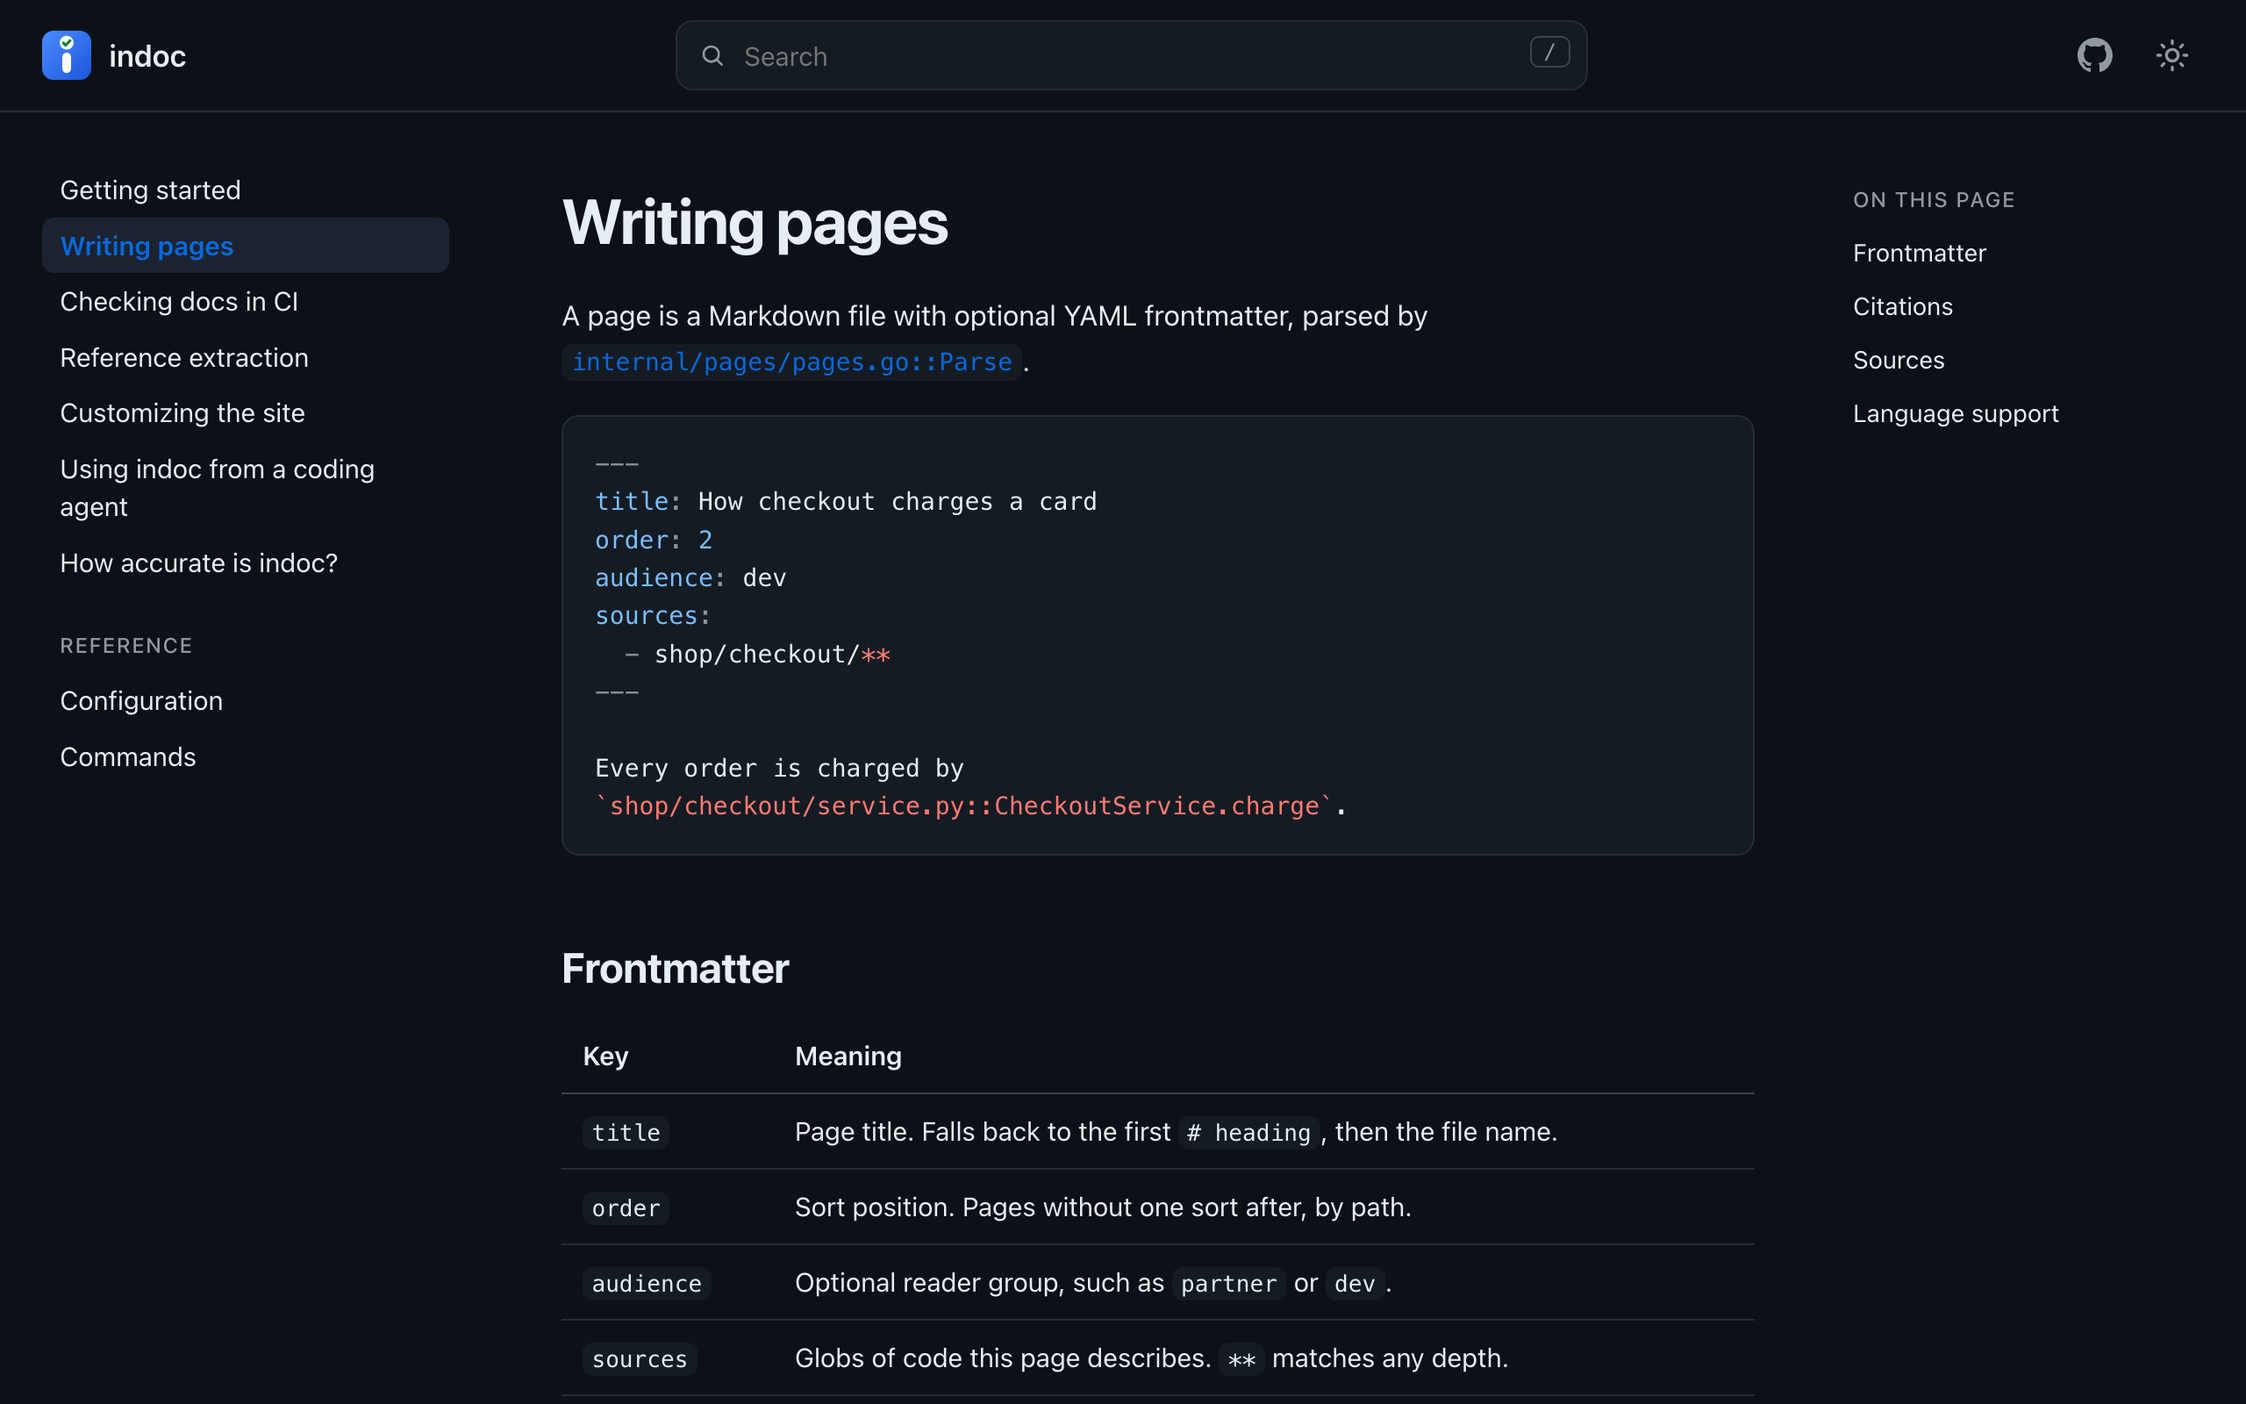
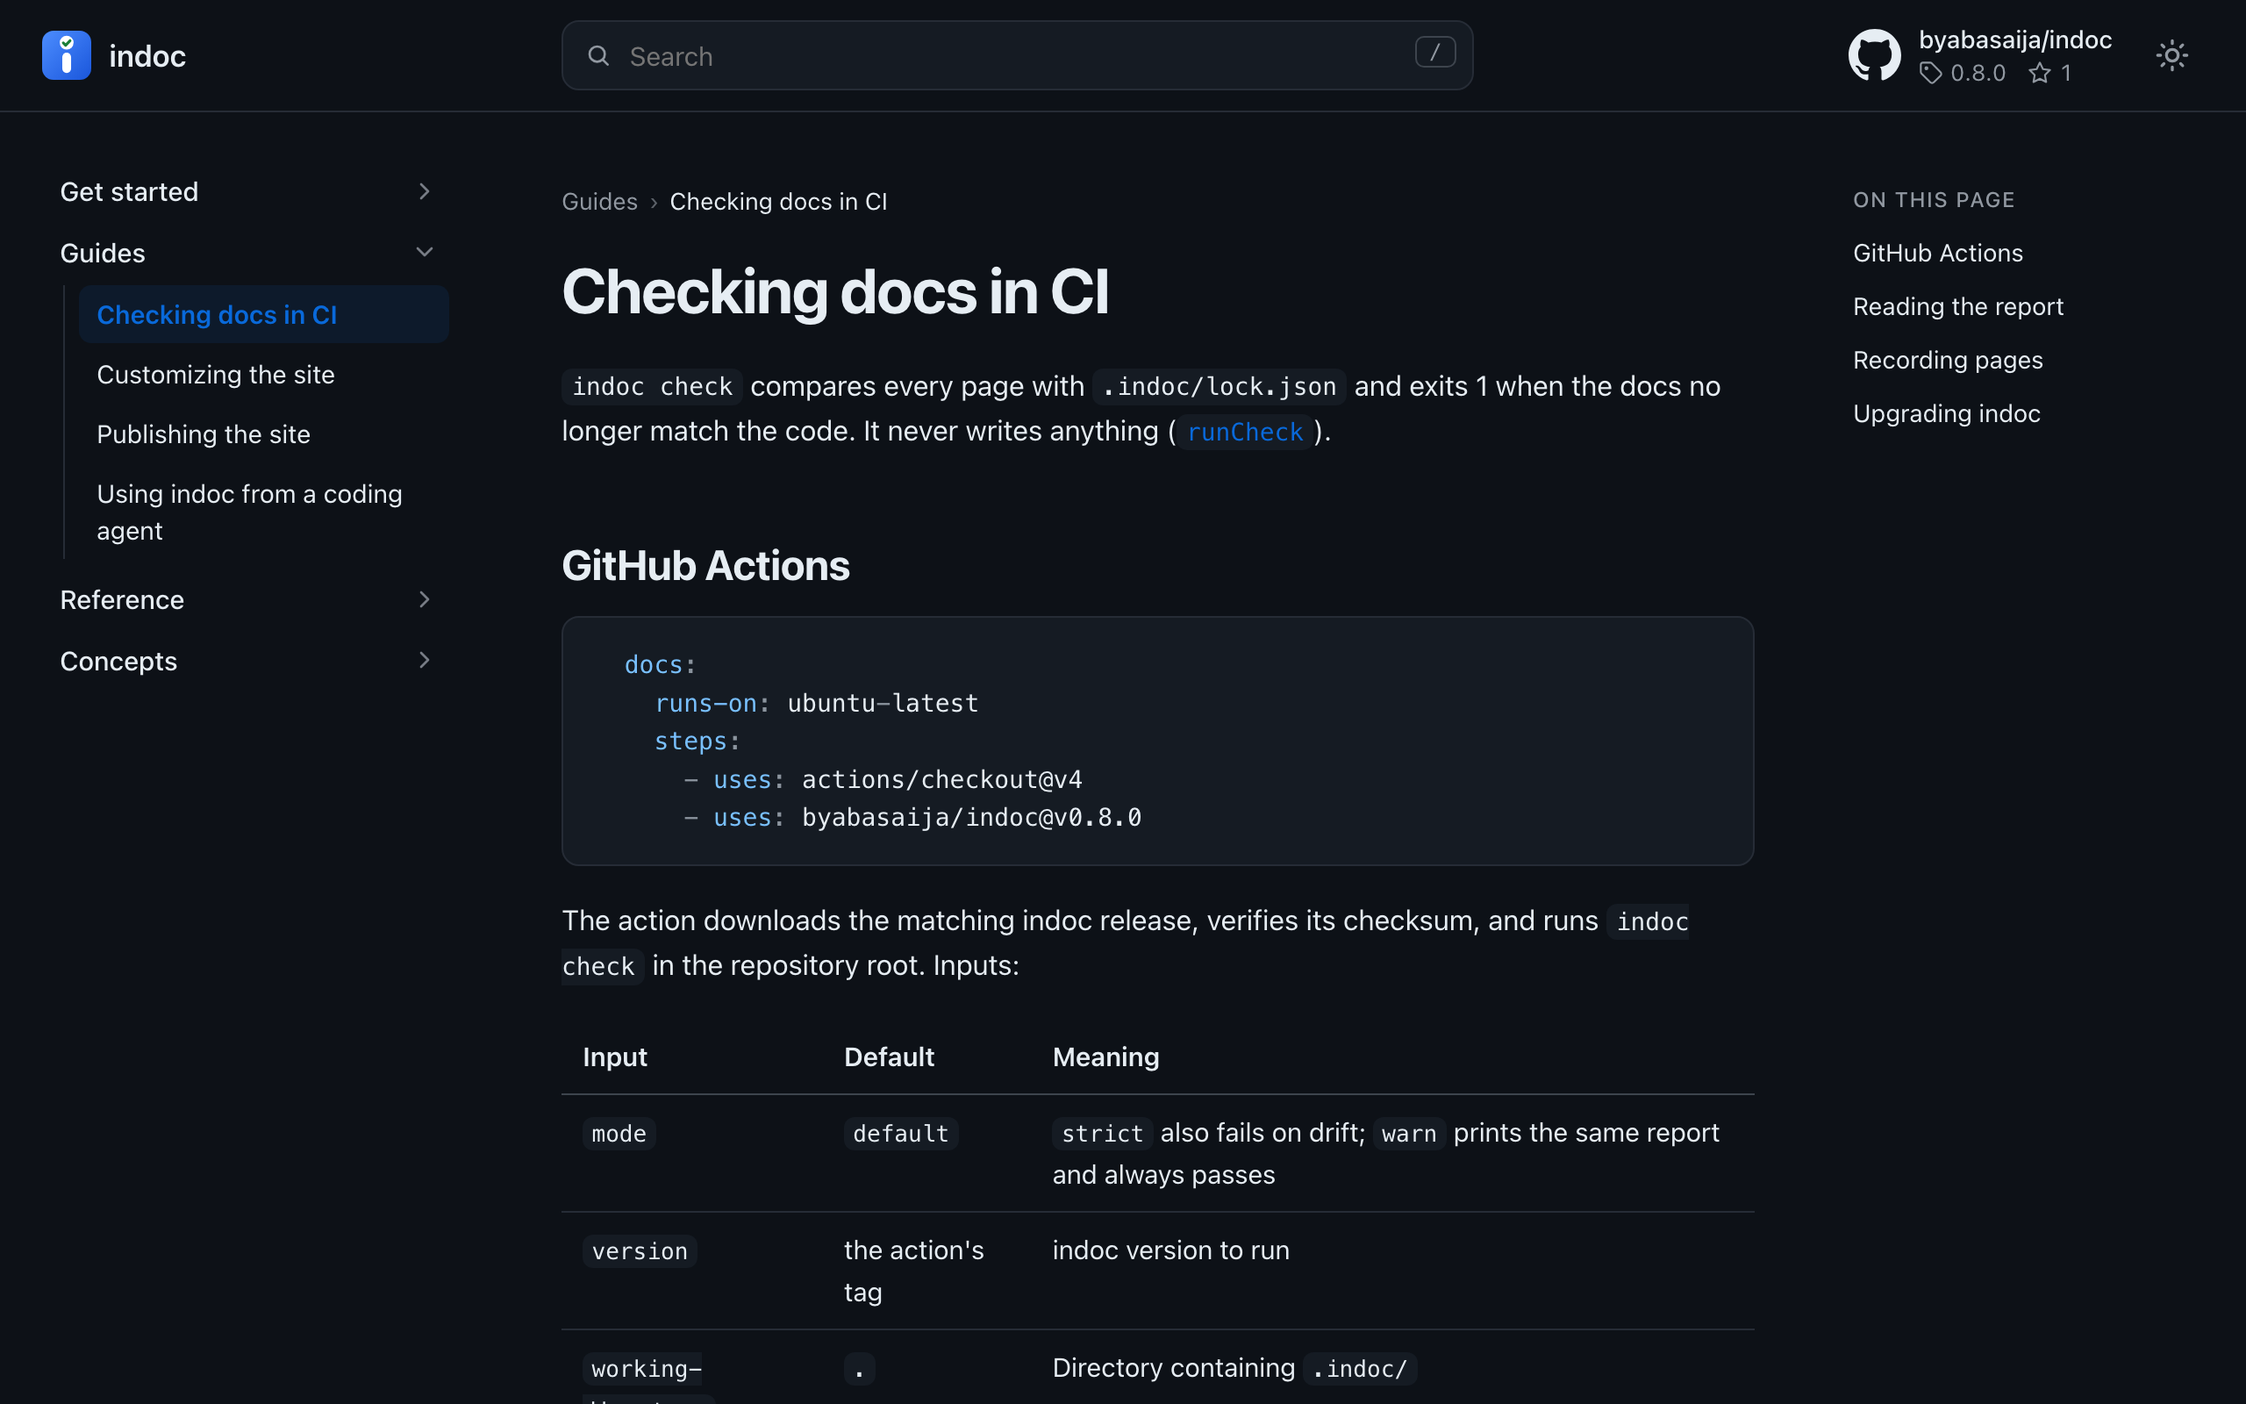
fix(check): report a cited change once, color the report; README demo GIF; release 0.8.1
A changed signature of a cited symbol was reported twice: on the citation
and again for its file. The file report now leaves cited symbols to their
citations. The report is colored in a terminal (NO_COLOR respected).
The README opens with design/demo.gif, recorded by design/record-demo.sh
from indoc's own docs; screenshots retaken from the live site.

diff --git a/internal/drift/drift.go b/internal/drift/drift.go
@@ -315,8 +315,10 @@ func compareSources(r *Repo, p pages.Page, entry PageLock, covered []string) []F
 			out = append(out, Finding{Page: p.Path, Kind: Drift, Ref: path, Detail: "tests changed"})
 			continue
 		}
-		public, private := surfaceChanges(was, f)
+		public, private, skipped := surfaceChanges(was, f, cited(p, path))
 		switch {
+		case public == "" && private == "" && skipped:
+			// Only cited symbols changed; their citations report it.
 		case public != "":
 			out = append(out, Finding{Page: p.Path, Kind: Stale, Ref: path, Detail: public})
 		case private != "":
@@ -337,9 +339,22 @@ func compareSources(r *Repo, p pages.Page, entry PageLock, covered []string) []F
 	return out
 }
 
+// cited returns the symbols the page cites in path.
+func cited(p pages.Page, path string) map[string]bool {
+	out := map[string]bool{}
+	for _, c := range p.Citations {
+		if c.Path == path {
+			out[c.Symbol] = true
+		}
+	}
+	return out
+}
+
 // surfaceChanges describes added, removed, and re-signed symbols, split into
-// public ones (stale) and private ones (drift). Either may be "".
-func surfaceChanges(was FileLock, f code.File) (public, private string) {
+// public ones (stale) and private ones (drift). Either may be "". Symbols in
+// skip are left out, because their citations already report them; skipped
+// says whether any were.
+func surfaceChanges(was FileLock, f code.File, skip map[string]bool) (public, private string, skipped bool) {
 	now := f.Surfaces()
 	privateNow := f.Private()
 	privateWas := map[string]bool{}
@@ -360,6 +375,8 @@ func surfaceChanges(was FileLock, f code.File) (public, private string) {
 		case !ok:
 			g := pick(q, privateNow[q])
 			g.added = append(g.added, q)
+		case old != s && skip[q]:
+			skipped = true
 		case old != s:
 			g := pick(q, privateNow[q] && privateWas[q])
 			g.changed = append(g.changed, q)
@@ -371,7 +388,7 @@ func surfaceChanges(was FileLock, f code.File) (public, private string) {
 			g.removed = append(g.removed, q)
 		}
 	}
-	return describe(pub.changed, pub.added, pub.removed), describe(priv.changed, priv.added, priv.removed)
+	return describe(pub.changed, pub.added, pub.removed), describe(priv.changed, priv.added, priv.removed), skipped
 }
 
 func describe(changed, added, removed []string) string {

diff --git a/internal/cli/check.go b/internal/cli/check.go
@@ -5,6 +5,7 @@ import (
 	"errors"
 	"fmt"
 	"io"
+	"os"
 	"strings"
 
 	"github.com/byabasaija/indoc/internal/drift"
@@ -83,9 +84,24 @@ func runCheck(configPath string, out io.Writer, strict, warn, asJSON bool) error
 	return nil
 }
 
+// colors are ANSI styles, empty unless out is a terminal and NO_COLOR is unset.
+type colors struct{ bold, red, yellow, green, dim, reset string }
+
+func colorsFor(out io.Writer) colors {
+	f, ok := out.(*os.File)
+	if !ok || os.Getenv("NO_COLOR") != "" || os.Getenv("TERM") == "dumb" {
+		return colors{}
+	}
+	if info, err := f.Stat(); err != nil || info.Mode()&os.ModeCharDevice == 0 {
+		return colors{}
+	}
+	return colors{bold: "\x1b[1m", red: "\x1b[1;31m", yellow: "\x1b[33m", green: "\x1b[32m", dim: "\x1b[2m", reset: "\x1b[0m"}
+}
+
 func printFindings(out io.Writer, pageCount int, findings []drift.Finding, strict bool) {
+	c := colorsFor(out)
 	if len(findings) == 0 {
-		fmt.Fprintf(out, "%d pages match the code.\n", pageCount)
+		fmt.Fprintf(out, "%s✓%s %d pages match the code.\n", c.green, c.reset, pageCount)
 		return
 	}
 	counts := map[string]int{}
@@ -95,18 +111,18 @@ func printFindings(out io.Writer, pageCount int, findings []drift.Finding, stric
 			if current != "" {
 				fmt.Fprintln(out)
 			}
-			fmt.Fprintln(out, f.Page)
+			fmt.Fprintln(out, c.bold+f.Page+c.reset)
 			current = f.Page
 		}
-		mark := " "
+		mark, style := " ", c.yellow
 		if f.Fails(strict) {
-			mark = "✗"
+			mark, style = "✗", c.red
 		}
 		ref := f.Ref
 		if ref != "" {
 			ref += "  "
 		}
-		fmt.Fprintf(out, "  %s %-10s %s%s\n", mark, strings.ToUpper(f.Kind), ref, f.Detail)
+		fmt.Fprintf(out, "  %s%s %-10s%s %s%s%s%s\n", style, mark, strings.ToUpper(f.Kind), c.reset, ref, c.dim, f.Detail, c.reset)
 		counts[f.Kind]++
 	}
 

diff --git a/internal/drift/drift_test.go b/internal/drift/drift_test.go
@@ -322,3 +322,22 @@ func TestNewTestFilesAreDrift(t *testing.T) {
 		"drift docs/routing.md shop/checkout/test_new.py",
 		"drift docs/routing.md shop/checkout/testdata/sample.json")
 }
+
+func TestCitedSignatureChangeIsReportedOnce(t *testing.T) {
+	f := newFixture(t)
+	f.write("shop/checkout/dispatcher.py", strings.Replace(dispatcher, "def dispatch(self, session)", "def dispatch(self, session, retries)", 1))
+	got := f.check()
+	expect(t, got, "stale docs/routing.md shop/checkout/dispatcher.py::Dispatcher.dispatch")
+
+	// Another symbol changing in the same file is still reported for the file.
+	f.write("shop/checkout/dispatcher.py", strings.Replace(strings.Replace(dispatcher,
+		"def dispatch(self, session)", "def dispatch(self, session, retries)", 1),
+		"def route(self, session)", "def route(self, session, provider)", 1))
+	got = f.check()
+	expect(t, got,
+		"stale docs/routing.md shop/checkout/dispatcher.py",
+		"stale docs/routing.md shop/checkout/dispatcher.py::Dispatcher.dispatch")
+	if got[0].Detail != "signature changed: Dispatcher.route" {
+		t.Errorf("detail = %q", got[0].Detail)
+	}
+}

diff --git a/internal/cli/cli_test.go b/internal/cli/cli_test.go
@@ -489,7 +489,7 @@ func TestMCPWorkflow(t *testing.T) {
 
 	r.write("app/main.py", strings.Replace(appPy, "def admit(patient)", "def admit(patient, ward)", 1))
 	res = call(5, "indoc_check", map[string]any{})
-	if res["isError"] == true || res["structuredContent"].(map[string]any)["failing"].(float64) != 2 {
+	if res["isError"] == true || res["structuredContent"].(map[string]any)["failing"].(float64) != 1 { // the cited function, reported once
 		t.Fatalf("check after signature change: %s", text(res))
 	}
 	res = call(6, "indoc_ack", map[string]any{"pages": []string{"documentation/index.md"}})

diff --git a/internal/version/version.go b/internal/version/version.go
@@ -5,7 +5,7 @@ import "fmt"
 var (
 	// Version is the current semantic version of the indoc binary.
 	// Can be overridden at compile time via: -ldflags "-X github.com/byabasaija/indoc/internal/version.Version=v0.1.0"
-	Version = "0.8.0-dev"
+	Version = "0.8.1-dev"
 
 	// GitCommit is the git SHA at build time.
 	GitCommit = "none"

diff --git a/RELEASING.md b/RELEASING.md
@@ -15,18 +15,19 @@ So `main` must never pin a version whose release doesn't exist yet, or every plu
    - `internal/version/version.go`: `Version = "X.Y.Z-dev"`
    - The `byabasaija/indoc@vX.Y.Z` examples in `README.md`, `documentation/guides/ci.md`, and `plugin/skills/indoc/SKILL.md`
 2. Run `indoc bundle`, then `indoc check --strict`, and `go test ./...`. The launcher change drifts `documentation/guides/agents.md`; `indoc ack` it once you've confirmed it's still right.
-3. If the release changes behavior users rely on, write `.github/release-notes/vX.Y.Z.md` with an **Upgrading** section; the workflow uses it instead of generated notes.
-4. Commit (`chore: release X.Y.Z`) and tag the commit. **Do not push `main` yet.**
+3. If `indoc check`'s output changed, re-record the README demo with `design/record-demo.sh` (needs `brew install vhs`) and look at the GIF before committing.
+4. If the release changes behavior users rely on, write `.github/release-notes/vX.Y.Z.md` with an **Upgrading** section; the workflow uses it instead of generated notes.
+5. Commit (`chore: release X.Y.Z`) and tag the commit. **Do not push `main` yet.**
    ```sh
    git tag -a vX.Y.Z -m "indoc X.Y.Z: <one line>"
    git push origin vX.Y.Z
    ```
-5. Wait for the **Release** workflow to finish and confirm the release has six archives, `install.sh`, and `checksums.txt`.
-6. Push `main`. Plugin installs now pin a release that exists.
+6. Wait for the **Release** workflow to finish and confirm the release has six archives, `install.sh`, and `checksums.txt`.
+7. Push `main`. Plugin installs now pin a release that exists.
    ```sh
    git push origin main
    ```
-7. Check the launcher against the published release:
+8. Check the launcher against the published release:
    ```sh
    CLAUDE_PLUGIN_DATA=$(mktemp -d) sh plugin/bin/indoc version
    ```

diff --git a/README.md b/README.md
@@ -25,10 +25,7 @@
 </p>
 
 <p align="center">
-  <picture>
-    <source media="(prefers-color-scheme: dark)" srcset="design/screenshots/landing-dark.png">
-    <img src="design/screenshots/landing-light.png" width="860" alt="indoc's own documentation site, built by indoc: landing page with hero, call-to-action buttons, and feature cards">
-  </picture>
+  <img src="design/demo.gif" width="860" alt="indoc checking its own docs: indoc check passes, a cited function's parameters change, and indoc check fails naming the page and the function, exiting 1">
 </p>
 
 ---
@@ -88,7 +85,7 @@ jobs:
     runs-on: ubuntu-latest
     steps:
       - uses: actions/checkout@v4
-      - uses: byabasaija/indoc@v0.8.0
+      - uses: byabasaija/indoc@v0.8.1
         # with:
         #   mode: warn   # report without failing while you try it out
 ```
@@ -146,7 +143,7 @@ These rules were tuned by replaying 100 commits of a real production codebase: 8
 
 <picture>
   <source media="(prefers-color-scheme: dark)" srcset="design/screenshots/site-dark.png">
-  <img src="design/screenshots/site-light.png" width="720" alt="A page in an indoc site: sidebar from folders, highlighted code, a verified citation linked to the code, and an on-this-page outline">
+  <img src="design/screenshots/site-light.png" width="720" alt="A page in an indoc site: sidebar sections from folders, breadcrumbs, highlighted code, and the GitHub card in the header">
 </picture>
 
 - Sidebar from your folders, full-text search, light and dark themes

diff --git a/ROADMAP.md b/ROADMAP.md
@@ -8,7 +8,7 @@ Want something here sooner? [Open an issue](https://github.com/byabasaija/indoc/
 
 | Version | What it added |
 |---|---|
-| **0.8** | The header shows a GitHub repository card: name, latest release, stars, and forks; the header fits narrow screens |
+| **0.8** | The header shows a GitHub repository card: name, latest release, stars, and forks; the header fits narrow screens; `check` reports each change once, in color (0.8.1) |
 | **0.7** | A standard docs layout: folders become sidebar sections that fold open, nested as deep as the folders go, with breadcrumbs; the agent lays new docs out in sections (get started, guides, reference, concepts) |
 | **0.6** | `indoc publish`: GitHub Pages, static hosts, or served by your app with tested code for Django, FastAPI, Flask, Express, NestJS, Next.js, Astro, and Go; `.indoc/theme/` with replaceable parts; more `appearance:` settings; hand edits to the output are caught, not overwritten |
 | **0.5** | Citations show as symbol names with a "Checked against the code" box; `citations: short \| full \| hidden`; links to the code opt-in (`source_links`); pages at the same URL refused; outlines organized by purpose |

diff --git a/plugin/skills/indoc/SKILL.md b/plugin/skills/indoc/SKILL.md
@@ -130,7 +130,7 @@ Call `indoc_check`. For each finding:
 
 1. Call `indoc_bundle`. Fix any broken citations it reports and call it again.
 2. Call `indoc_check`; `failing` must be 0.
-3. Tell the user where the site was written (default `.indoc/site/`) and that opening its `index.html` in a browser works without a server; with the `indoc` command installed, `indoc preview` serves it and rebuilds on every edit. `.indoc/config.yaml`, `.indoc/lock.json`, and the pages should be committed. Suggest adding `indoc check` to CI with the GitHub Action (`uses: byabasaija/indoc@v0.8.0`).
+3. Tell the user where the site was written (default `.indoc/site/`) and that opening its `index.html` in a browser works without a server; with the `indoc` command installed, `indoc preview` serves it and rebuilds on every edit. `.indoc/config.yaml`, `.indoc/lock.json`, and the pages should be committed. Suggest adding `indoc check` to CI with the GitHub Action (`uses: byabasaija/indoc@v0.8.1`).
 
 ## 6. Change the look
 

diff --git a/documentation/guides/ci.md b/documentation/guides/ci.md
@@ -18,7 +18,7 @@ sources:
     runs-on: ubuntu-latest
     steps:
       - uses: actions/checkout@v4
-      - uses: byabasaija/indoc@v0.8.0
+      - uses: byabasaija/indoc@v0.8.1
 ```
 
 The action downloads the matching indoc release, verifies its checksum, and runs `indoc check` in the repository root. Inputs:
@@ -39,7 +39,7 @@ documentation/dev/checkout.md
     DRIFT      shop/checkout/session.py  implementation changed; signatures unchanged
 ```
 
-Lines marked `✗` fail the check. With `--strict`, drift, unanchored pages, and unverifiable citations fail too.
+Lines marked `✗` fail the check. With `--strict`, drift, unanchored pages, and unverifiable citations fail too. A change to a cited symbol is reported once, on the citation, not again for its file. In a terminal, failures are red and drift yellow; set `NO_COLOR=1` to turn colors off (`internal/cli/check.go::printFindings`).
 
 | Kind | Meaning | Fix |
 |---|---|---|

diff --git a/documentation/get-started/quick-start.md b/documentation/get-started/quick-start.md
@@ -19,7 +19,7 @@ For the command itself, on macOS or Linux:
 curl -fsSL https://github.com/byabasaija/indoc/releases/latest/download/install.sh | sh
 ```
 
-It installs to `/usr/local/bin` when writable, otherwise `~/.local/bin`, after verifying the download against the release's checksums. Pin a version with `| sh -s -- v0.8.0`, or choose the folder with `INDOC_INSTALL_DIR`. Alternatively, `go install github.com/byabasaija/indoc/cmd/indoc@latest`, or download a binary (including Windows) from the GitHub releases page.
+It installs to `/usr/local/bin` when writable, otherwise `~/.local/bin`, after verifying the download against the release's checksums. Pin a version with `| sh -s -- v0.8.1`, or choose the folder with `INDOC_INSTALL_DIR`. Alternatively, `go install github.com/byabasaija/indoc/cmd/indoc@latest`, or download a binary (including Windows) from the GitHub releases page.
 
 ## Initialize
 

diff --git a/.github/release-notes/v0.8.1.md b/.github/release-notes/v0.8.1.md
@@ -1,0 +1,10 @@
+## A clearer `indoc check` report
+
+- **Each change is reported once.** When a function a page cites changes its signature, the report shows it on the citation only, not again as a change to its file.
+- **Colors in the terminal.** Passing checks are green, failures red, drift yellow. Output to a file or CI log stays plain, and `NO_COLOR=1` turns colors off.
+
+The README now opens with a recording of indoc checking its own docs: a cited function changes, and `indoc check` fails naming the page.
+
+### Upgrading
+
+Nothing to change. Tools that parse the text report may see one finding fewer where a cited symbol's file was listed separately before; `indoc check --json` is the stable format.
